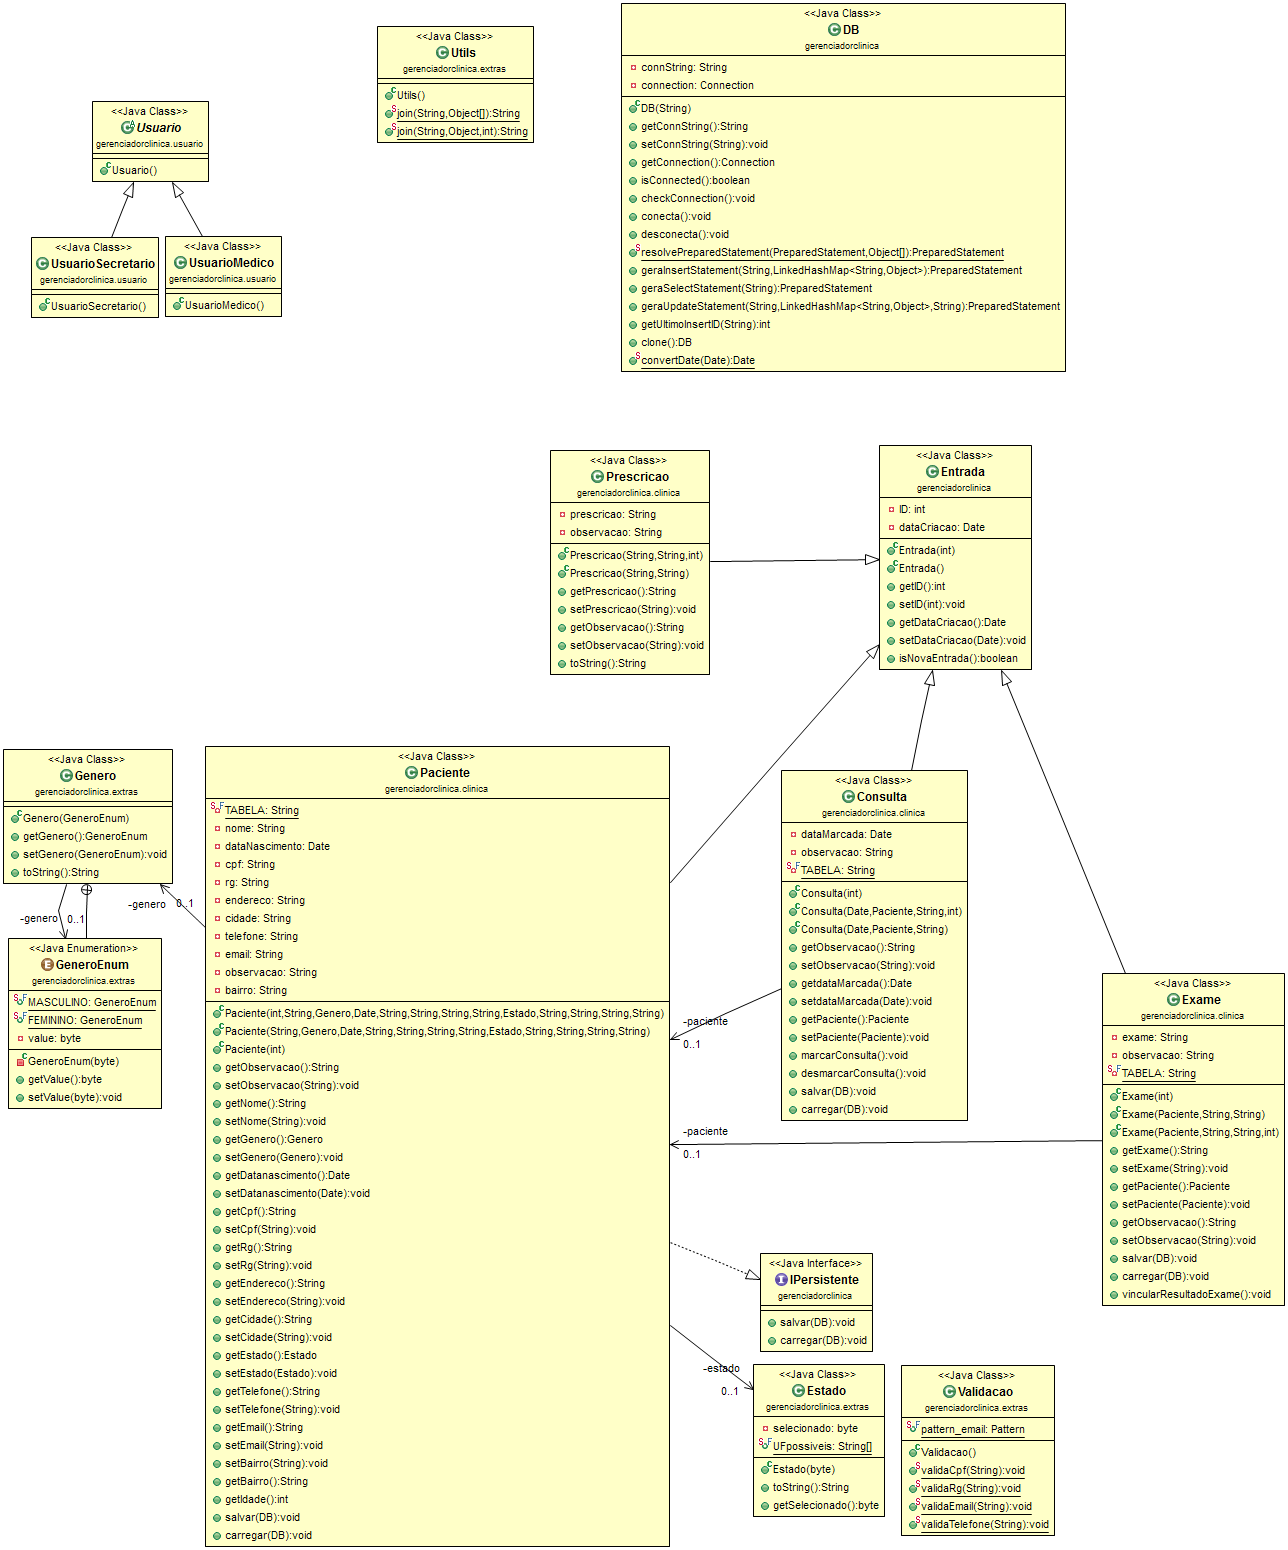
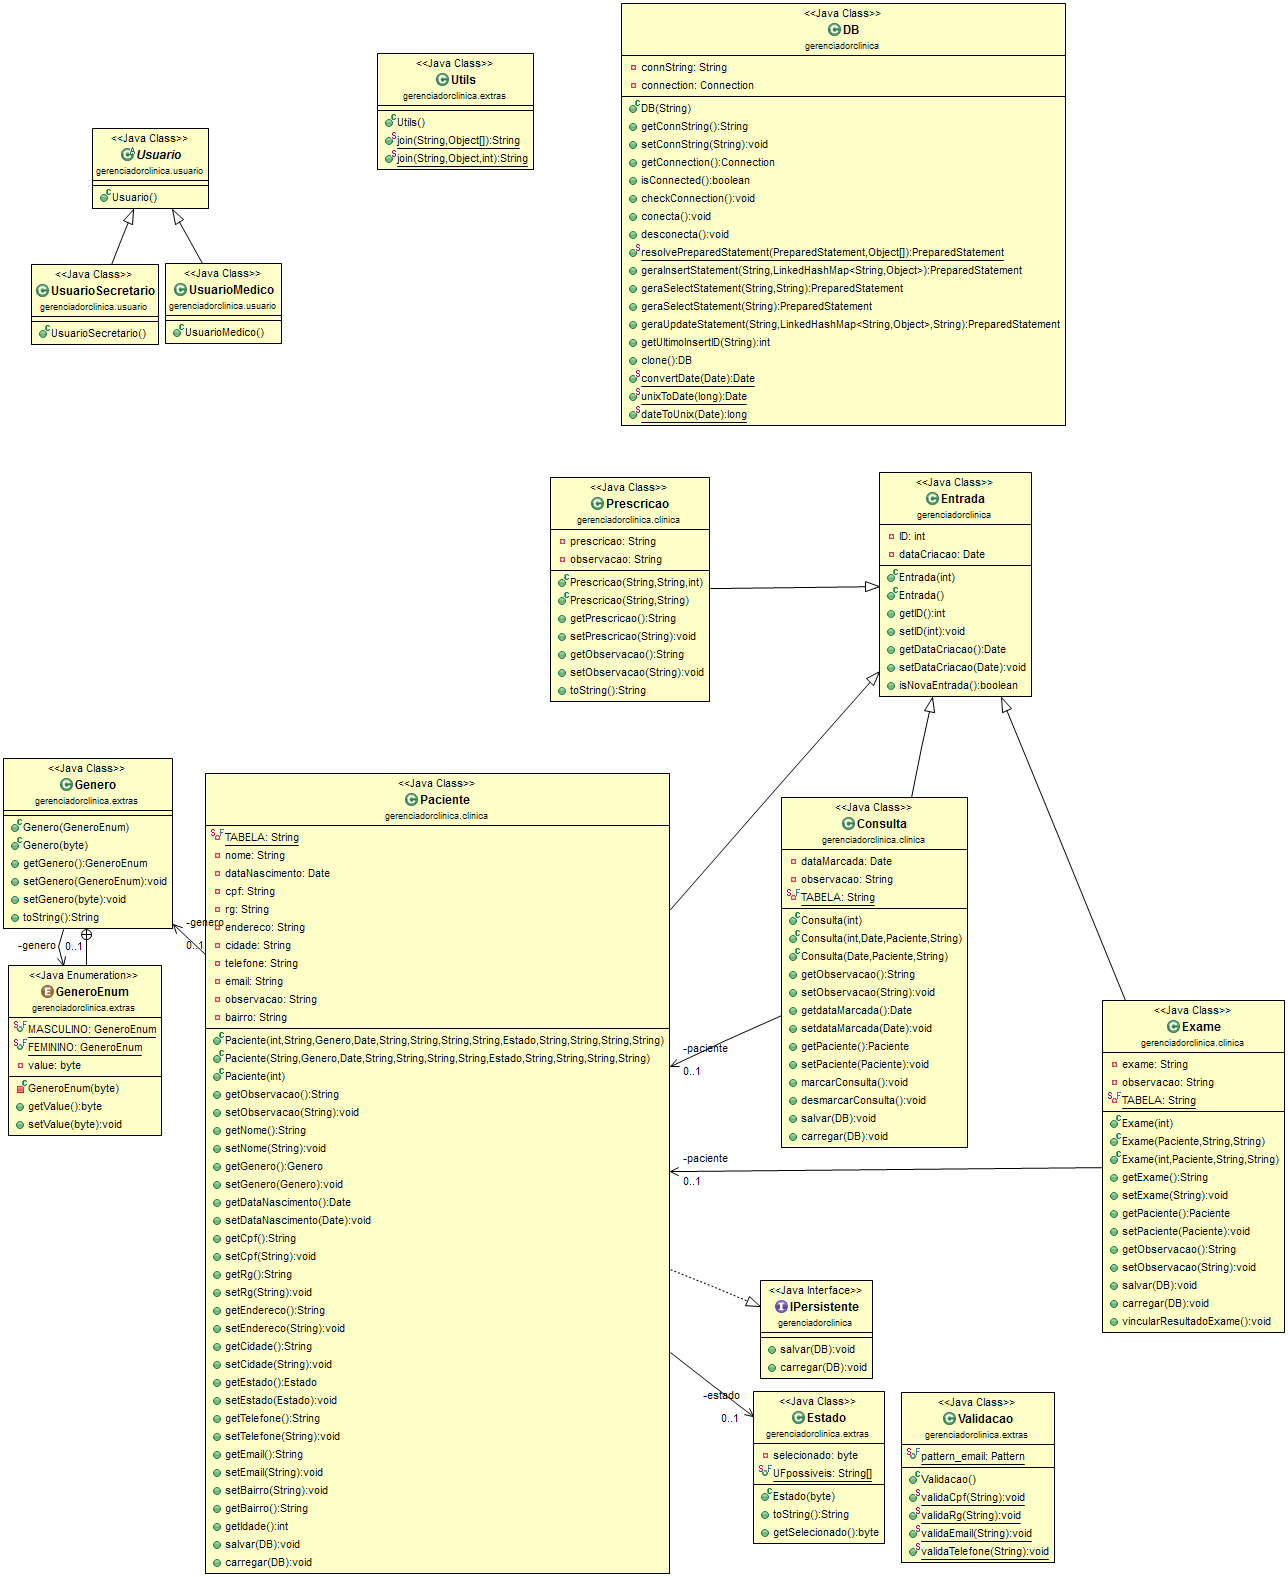
#20R Tanta coisa que nem lembro mais

diff --git a/src/gerenciadorclinica/App.java b/src/gerenciadorclinica/App.java
@@ -10,9 +10,11 @@ import gerenciadorclinica.gui.JanelaPrincipal;
 import gerenciadorclinica.gui.LoginDialog;
 
 import java.awt.EventQueue;
+import java.awt.Window;
 import java.sql.SQLException;
 import java.util.Date;
 
+import javax.swing.JOptionPane;
 import javax.swing.UIManager;
 
 public class App {
@@ -29,6 +31,7 @@ public class App {
 				try {
 					UIManager.setLookAndFeel(UIManager.getSystemLookAndFeelClassName());
 					// DB TESTE
+					/*
 					{
 						DB data = db.clone();
 						Consulta c = new Consulta(1);
@@ -43,7 +46,8 @@ public class App {
 						} finally{
 							data.desconecta();
 						}
-					}
+					}*/
+					App.db.conecta();
 					JanelaPrincipal frame = new JanelaPrincipal();
 					frame.setVisible(true);
 					LoginDialog.showDialog(frame);
@@ -54,5 +58,7 @@ public class App {
 		});
 	}
 	
-	
+	public static void showMsgBox(Window owner, String msg){
+		JOptionPane.showMessageDialog(owner, msg);
+	}
 }

diff --git a/src/gerenciadorclinica/gui/PacientesDialog.java b/src/gerenciadorclinica/gui/PacientesDialog.java
@@ -1,13 +1,18 @@
 package gerenciadorclinica.gui;
 
+import gerenciadorclinica.App;
+import gerenciadorclinica.DB;
+import gerenciadorclinica.clinica.Paciente;
+
 import java.awt.Window;
 
 import javax.swing.JDialog;
 import javax.swing.JTable;
-
 import javax.swing.JButton;
+
 import java.awt.event.ActionListener;
 import java.awt.event.ActionEvent;
+import java.sql.SQLException;
 
 @SuppressWarnings("serial")
 public class PacientesDialog extends JDialog {
@@ -18,6 +23,7 @@ public class PacientesDialog extends JDialog {
 	 */
 	public static void showDialog(Window owner){
 		try {
+			
 			PacientesDialog dialog = new PacientesDialog(owner);
 			dialog.setDefaultCloseOperation(JDialog.DISPOSE_ON_CLOSE);
 			dialog.setVisible(true);
@@ -88,6 +94,6 @@ public class PacientesDialog extends JDialog {
 	}
 	
 	public void showAddPaciente(){
-		AddPacienteDialog.showDialog(this);
+		AddPacienteDialog.showDialog(this, null);
 	}
 }

diff --git a/src/gerenciadorclinica/extras/Genero.java b/src/gerenciadorclinica/extras/Genero.java
@@ -34,6 +34,14 @@ public class Genero {
 		return genero;
 	}
 
+	public void setValue(byte genero){
+		setGenero(genero);
+	}
+	
+	public byte getValue(){
+		return genero.getValue();
+	}
+	
 	public void setGenero(GeneroEnum genero) {
 		this.genero = genero;
 	}
@@ -42,6 +50,13 @@ public class Genero {
 		this.genero = GeneroEnum.values()[genero];
 	}
 
+	@Override
+	public boolean equals(Object obj){
+		if(!(obj instanceof Genero)) return false;
+		if(obj == this) return true;
+		return ((Genero)obj).getValue() == getValue();
+	}
+	
 	@Override
 	public String toString() {
 		if (this.genero == GeneroEnum.MASCULINO)

diff --git a/src/gerenciadorclinica/extras/Estado.java b/src/gerenciadorclinica/extras/Estado.java
@@ -12,6 +12,13 @@ public class Estado {
 	}
 
 	@Override
+	public boolean equals(Object obj){
+		if(!(obj instanceof Estado)) return false;
+		if(obj == this) return true;
+		return (((Estado)obj).getSelecionado() == this.selecionado);
+	}
+	
+	@Override
 	public String toString() {
 		return Estado.UFpossiveis[selecionado];
 	}

diff --git a/src/gerenciadorclinica/extras/Validacao.java b/src/gerenciadorclinica/extras/Validacao.java
@@ -20,7 +20,7 @@ public class Validacao {
 	}
 	
 	public static void validaRg(String RG) throws RgInvalidoException {
-			if(RG.length() != 9)
+			if(RG.length() < 8 && RG.length() > 10)
 				throw new RgTamanhoInvalidoException();
 			try{
 				Long.parseLong(RG);

diff --git a/src/gerenciadorclinica/gui/components/DatePicker.java b/src/gerenciadorclinica/gui/components/DatePicker.java
@@ -20,5 +20,9 @@ public class DatePicker extends JDatePickerImpl {
 	public Date getSelectedDate(){
 		return (Date)getModel().getValue();
 	}
+	
+	public void setSelectedDate(Date date){
+		((UtilDateModel)getModel()).setValue(date);
+	}
 
 }
